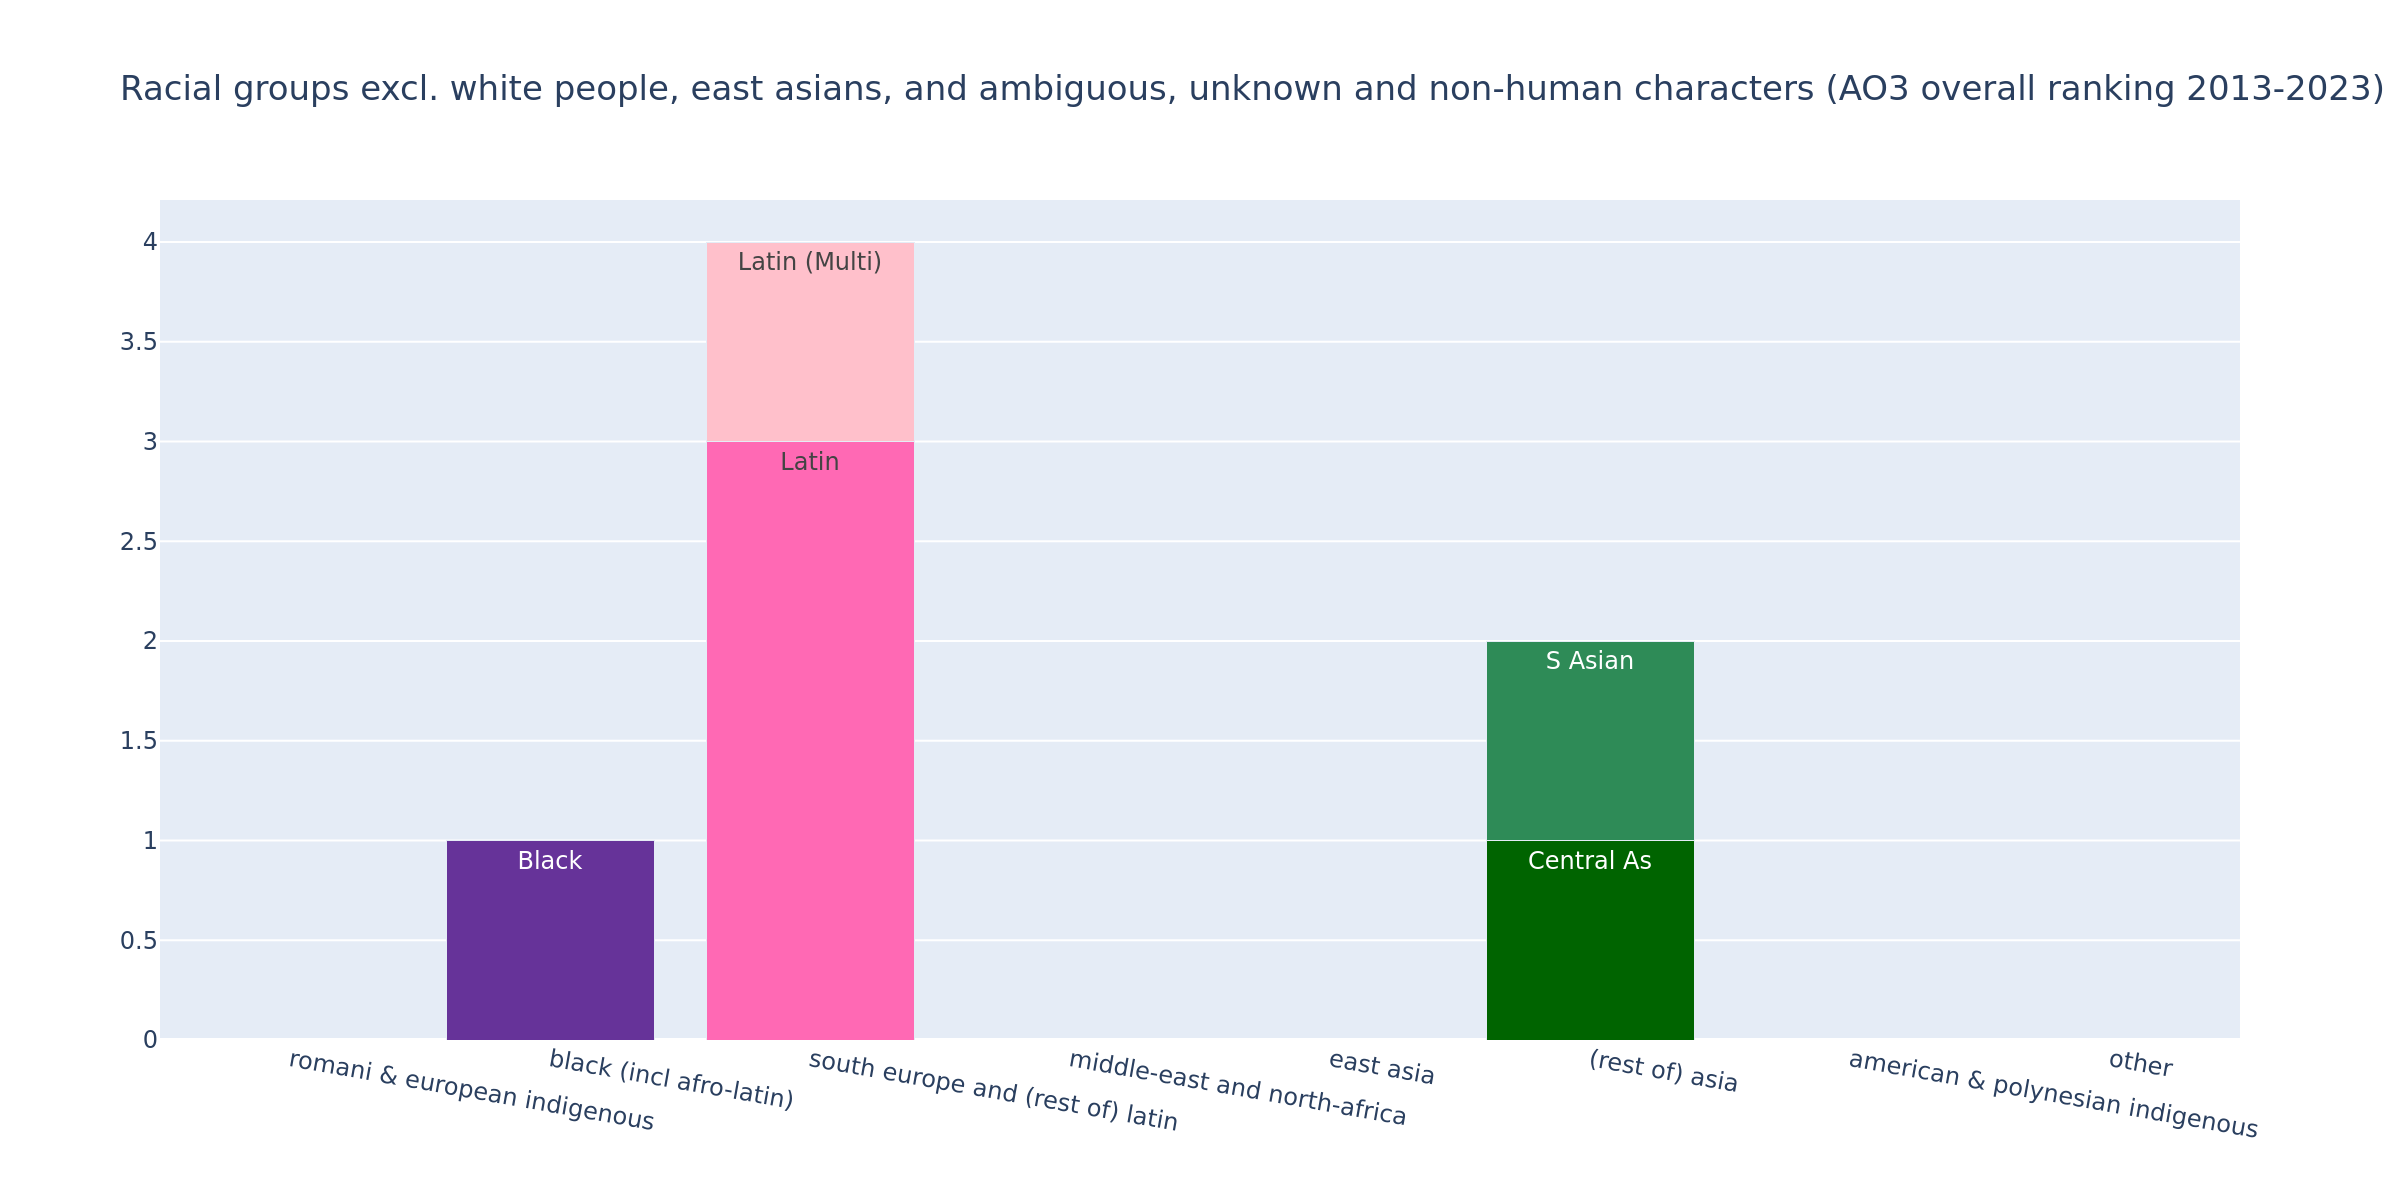
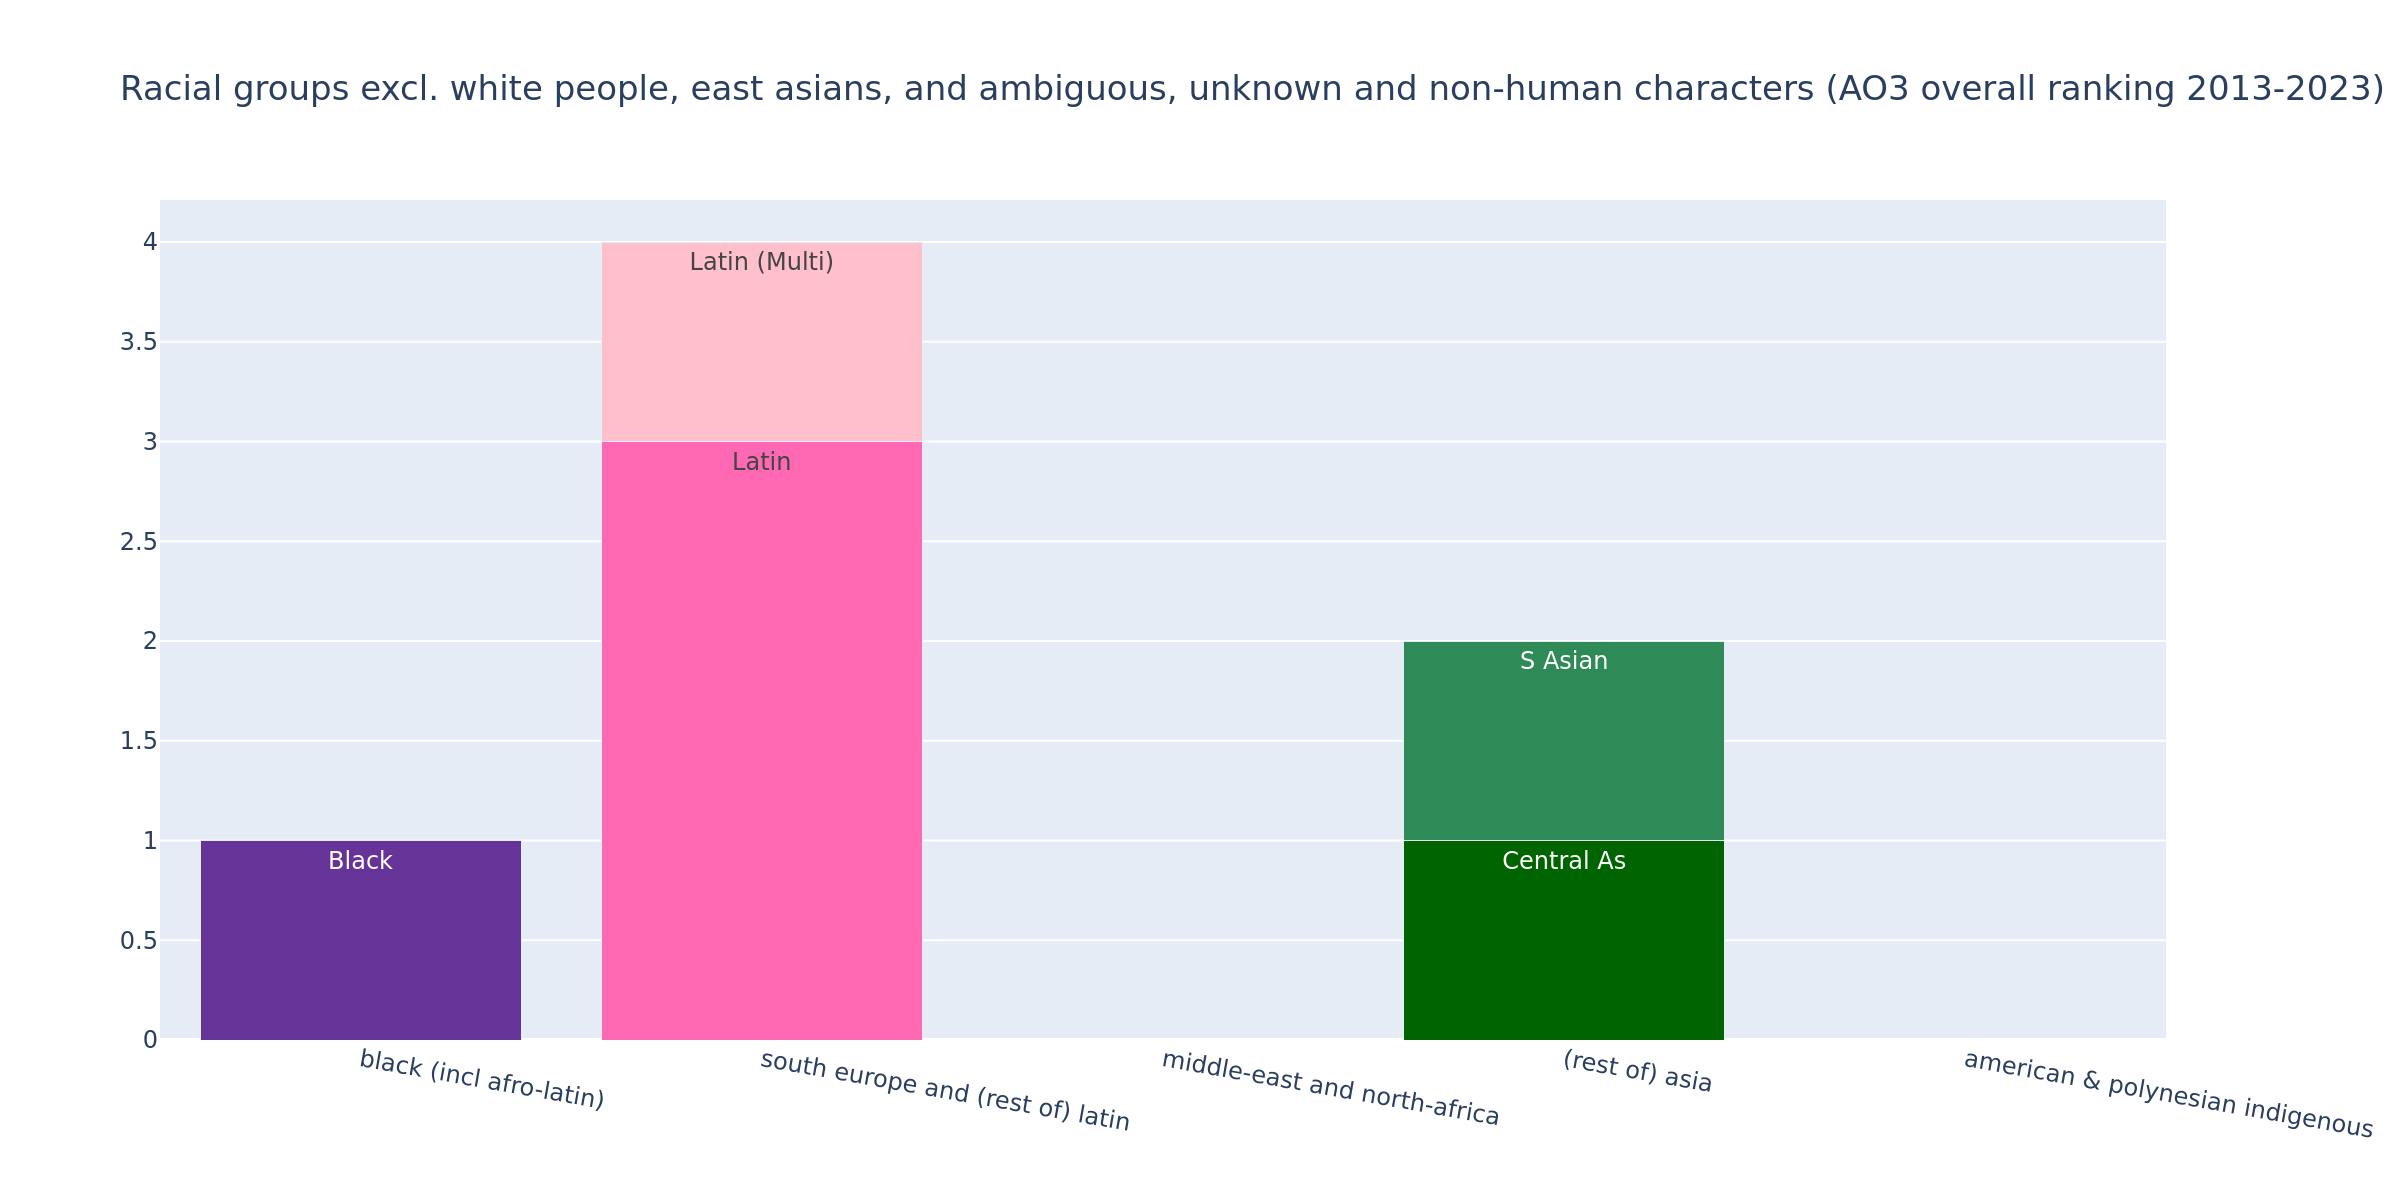
fix traces of minority racial groups bars

Changed region(s): [[0.0625, 0.185, 0.7188, 0.9558], [0.7812, 0.1542, 1.0, 0.9558], [0.5938, 0.925, 0.625, 0.9558]]

diff --git a/visualisation/diagram_code/visualise_bars.py b/visualisation/diagram_code/visualise_bars.py
@@ -134,8 +134,11 @@ def visualise_stacked_bars(input_df:pd.DataFrame, data_case:str, ranking:str):
                 # item is specific group
 
                 if item in iterable_2[instance] or type(input_df) == pd.Series or ranking == "femslash":
-                    if instance == "north, west, middle and eastern europe":
+                    if instance == "north, west, middle and eastern europe" \
+                    and item in ["Eu Ind", "Romani"]:
                         stack_label = "romani & european indigenous"
+                    elif instance in ["east asia", "other", "north, west, middle and eastern europe"]:
+                        continue
                     else:
                         stack_label = instance
 
